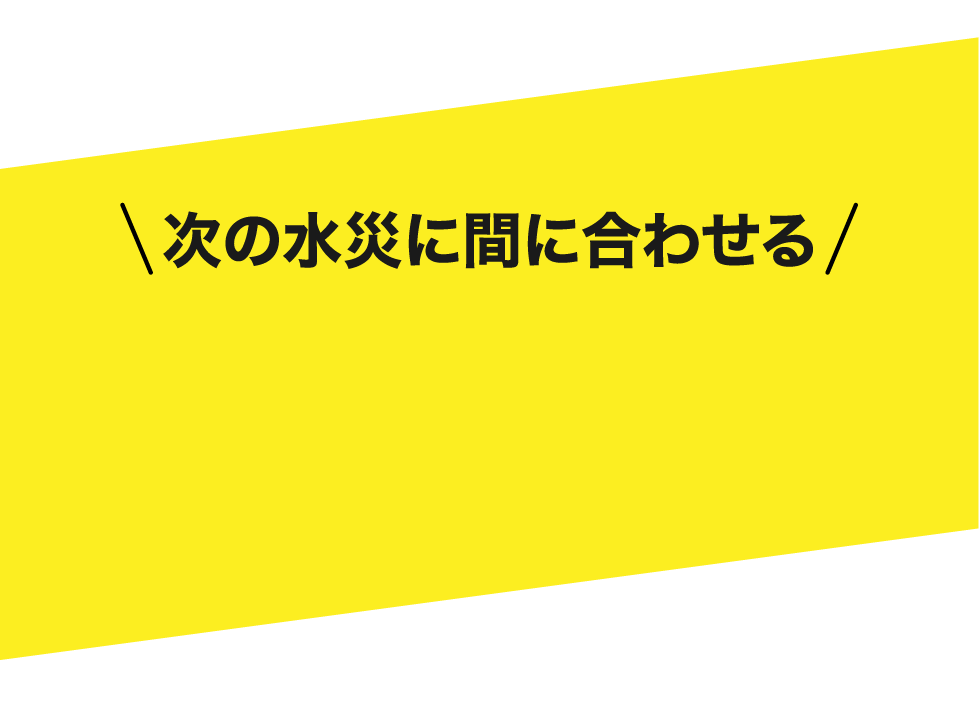
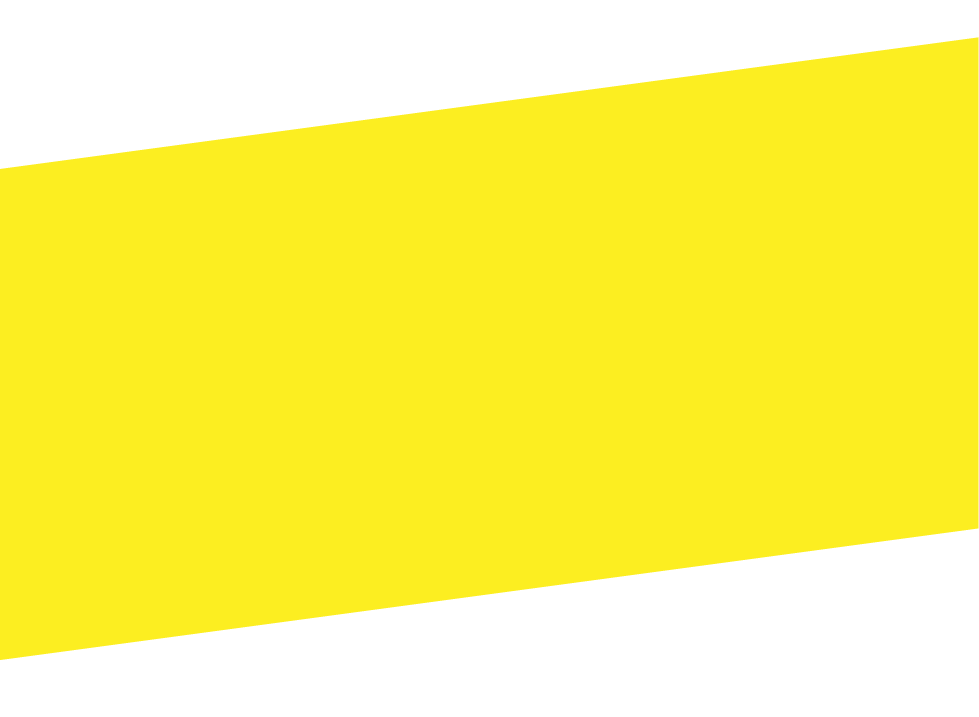
点滅アニメーションを追加し、CTAテキストのスタイルを改善。リンクを更新し、画像を追加。

Changed region(s): [[0.1226, 0.2762, 0.858, 0.3989], [0.858, 0.2762, 0.8887, 0.3375]]

diff --git a/index.html b/index.html
@@ -44,7 +44,7 @@
             <ul class="header-nav-list">
               <li class="header-nav-item"><a href="#sec04"><img src="./image/header-02.webp" alt="特徴"></a></li>
               <li class="header-nav-item"><a href="#sec06"><img src="./image/header-03.webp" alt="価格"></a></li>
-              <li class="header-nav-item"><a href="contact"><img src="./image/header-04.webp" alt="今すぐ購入"></a></li>
+              <li class="header-nav-item"><a href="https://lm-creators.slack.com/archives/D095CHJPE6Q/p1759204524385329?thread_ts=1759128915.561269&cid=D095CHJPE6Q"><img src="./image/header-04.webp" alt="今すぐ購入"></a></li>
             </ul>
           </nav>
         </div>
@@ -59,8 +59,11 @@
               <div class="kv__cta-bg">
                 <img src="./image/KY_cta_bg.webp" alt="cta">
               </div>
+              <div class="kv__cta-text blinking">
+                <img src="./image/KY_cta_text.webp" alt="次の水災に間に合わせる">
+              </div>
               <div class="kv__cta-btn">
-                <a href="contact">
+                <a href="https://lm-creators.slack.com/archives/D095CHJPE6Q/p1759204524385329?thread_ts=1759128915.561269&cid=D095CHJPE6Q">
                   <img src="./image/KY_cta_btn.webp" alt="今すぐ購入">
                 </a>
               </div>
@@ -306,7 +309,7 @@
                 <img src="./image/sec07_cta_bg.webp" alt="cta">
               </div>
               <div class="sec07__cta-btn">
-                <a href="contact">
+                <a href="https://lm-creators.slack.com/archives/D095CHJPE6Q/p1759204524385329?thread_ts=1759128915.561269&cid=D095CHJPE6Q">
                   <img src="./image/sec07_cta_btn.webp" alt="緊急購入はこちら">
                 </a>
               </div>
@@ -366,7 +369,7 @@
                 <img src="./image/sec09_cta_bg.webp" alt="sec09">
               </div>
               <div class="sec09__image-cta-btn">
-                <a href="contact">
+                <a href="https://lm-creators.slack.com/archives/D095CHJPE6Q/p1759204524385329?thread_ts=1759128915.561269&cid=D095CHJPE6Q">
                   <img src="./image/sec09_cta_btn.webp" alt="sec09">
                 </a>
               </div>

diff --git a/scss/page/_all.scss b/scss/page/_all.scss
@@ -2,6 +2,24 @@
 .text-yellow {
     color: $color-theme !important;
 }
+/* 点滅 */
+.blinking{
+	-webkit-animation:blink 1s ease-in-out infinite alternate;
+    -moz-animation:blink 1s ease-in-out infinite alternate;
+    animation:blink 1s ease-in-out infinite alternate;
+}
+@-webkit-keyframes blink{
+    0% {opacity:0;}
+    100% {opacity:1;}
+}
+@-moz-keyframes blink{
+    0% {opacity:0;}
+    100% {opacity:1;}
+}
+@keyframes blink{
+    0% {opacity:0;}
+    100% {opacity:1;}
+}
 p {
     color: $color-white;
     line-height: 2;
@@ -35,6 +53,9 @@ p {
     justify-content: space-between;
     align-items: center;
 }
+.header-logo {
+    width: calc(119 / 600 * 100%);
+}
 .header-nav-list {
     display: flex;
     align-items: center;
@@ -54,6 +75,13 @@ p {
 .kv__cta {
     position: relative;
     margin-top: rem(-200);
+}
+.kv__cta-text {
+    position: absolute;
+    left: 50%;
+    transform: translateX(-50%);
+    bottom: 50%;
+    width: calc(489 / 640 * 100%);
 }
 .kv__cta-btn {
     position: absolute;

diff --git a/css/style.css b/css/style.css
@@ -211,6 +211,28 @@ select::-ms-expand {
   color: #fcee21 !important;
 }
 
+/* 点滅 */
+.blinking {
+  -webkit-animation: blink 1s ease-in-out infinite alternate;
+  animation: blink 1s ease-in-out infinite alternate;
+}
+
+@-webkit-keyframes blink {
+  0% {
+    opacity: 0;
+  }
+  100% {
+    opacity: 1;
+  }
+}
+@keyframes blink {
+  0% {
+    opacity: 0;
+  }
+  100% {
+    opacity: 1;
+  }
+}
 p {
   color: #fff;
   line-height: 2;
@@ -256,6 +278,10 @@ p {
           align-items: center;
 }
 
+.header-logo {
+  width: 19.8333333333%;
+}
+
 .header-nav-list {
   display: -webkit-box;
   display: -ms-flexbox;
@@ -283,6 +309,15 @@ p {
 .kv__cta {
   position: relative;
   margin-top: -12.5rem;
+}
+
+.kv__cta-text {
+  position: absolute;
+  left: 50%;
+  -webkit-transform: translateX(-50%);
+          transform: translateX(-50%);
+  bottom: 50%;
+  width: 76.40625%;
 }
 
 .kv__cta-btn {
